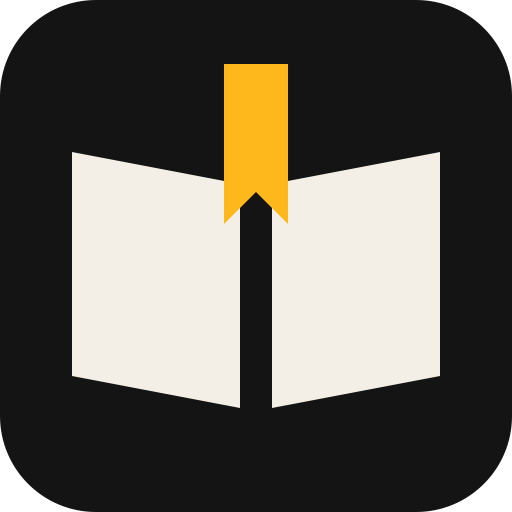
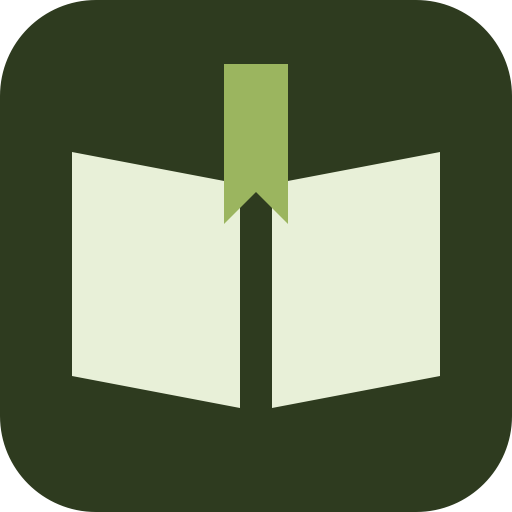
Green palette and Figma-designed motion
- Palette: olive #2E3B1F, matcha #9BB55F, cream-mint #E8F0D8 (tints mixed
  from those three); light and dark mode; icons and share image updated
- Entrance motion taken from the Figma prototype 'Home – motion': header,
  headline lines, hero, glance panel rows and protein highlight on load;
  cards and steps when scrolled into view; list counter bumps on add
- All motion off under prefers-reduced-motion

diff --git a/style.css b/style.css
@@ -1,13 +1,13 @@
-/* My Recipe Booklet: a food-label look. Black rules, condensed type, mono numbers,
-   one saffron accent. */
+/* My Recipe Booklet: a food-label look in three greens. Olive for type and rules,
+   matcha as the single accent, cream-mint as the page. Tints are mixed from those three. */
 :root {
-  --bg: #f3efe6;
-  --surface: #fbf9f4;
-  --ink: #141414;
-  --muted: #5c574f;
-  --hair: #d9d3c7;
-  --accent: #ffb81c;
-  --on-accent: #141414;
+  --bg: #e8f0d8;        /* cream-mint */
+  --surface: #f4f8ec;   /* lighter cream-mint */
+  --ink: #2e3b1f;       /* olive */
+  --muted: #4f5e38;     /* olive lifted toward matcha */
+  --hair: #c9d6b2;
+  --accent: #9bb55f;    /* matcha */
+  --on-accent: #2e3b1f;
   --danger: #b3261e;
   --display: "Archivo", "Helvetica Neue", Arial, sans-serif;
   --sans: "Archivo", system-ui, -apple-system, sans-serif;
@@ -16,11 +16,12 @@
 }
 @media (prefers-color-scheme: dark) {
   :root {
-    --bg: #121211;
-    --surface: #1b1a18;
-    --ink: #f3efe6;
-    --muted: #a39e94;
-    --hair: #34322e;
+    --bg: #161d0f;
+    --surface: #212a17;
+    --ink: #e8f0d8;
+    --muted: #b4c39a;
+    --hair: #34402a;
+    --on-accent: #161d0f;
     --danger: #ff8a7a;
   }
 }
@@ -160,9 +161,9 @@ a { color: inherit; }
 .steps span { color: var(--muted); font-size: 18px; }
 
 .chart-grid { display: grid; grid-template-columns: repeat(2, 1fr); gap: 16px; margin: 8px 0 12px; }
-.chart { margin: 0; border: 2px solid var(--ink); background: #fbf9f4; }
+.chart { margin: 0; border: 2px solid var(--ink); background: #f4f8ec; }
 .chart iframe { display: block; width: 100%; height: 420px; border: 0; }
-.chart figcaption { padding: 12px 16px; border-top: 1px solid var(--ink); font-size: 14px; color: #5c574f; }
+.chart figcaption { padding: 12px 16px; border-top: 1px solid var(--ink); font-size: 14px; color: #4f5e38; }
 
 .facts-group {
   font: 500 12px var(--mono); letter-spacing: .14em; text-transform: uppercase; color: var(--muted);
@@ -356,6 +357,40 @@ code { font: .9em var(--mono); background: var(--surface); padding: 1px 5px; bor
 @media (prefers-reduced-motion: reduce) {
   *, *::before, *::after { animation: none !important; transition: none !important; }
 }
+
+/* ── motion: values from the Figma prototype ("Home – motion"). Plays once on load;
+   cards and steps start when scrolled into view. Off for reduced-motion users. ── */
+@keyframes m-in { from { opacity: 0; translate: var(--mx, 0) var(--my, 0); } to { opacity: 1; translate: 0 0; } }
+@keyframes m-pop {
+  0% { scale: var(--from, .6); animation-timing-function: cubic-bezier(0, 0, .58, 1); }
+  55% { scale: 1.12; animation-timing-function: cubic-bezier(.42, 0, .58, 1); }
+  100% { scale: 1; }
+}
+.motion .bar { --my: -12px; animation: m-in .4s cubic-bezier(0, 0, .58, 1) both; }
+.motion #p-cover.active .kicker { animation: m-in .35s cubic-bezier(0, 0, .58, 1) .2s both; }
+.motion #p-cover.active .ln { display: block; --my: 40px; animation: m-in .55s cubic-bezier(0, 0, .58, 1) both; }
+.motion #p-cover.active .ln:nth-child(1) { animation-delay: .3s; }
+.motion #p-cover.active .ln:nth-child(2) { animation-delay: .42s; }
+.motion #p-cover.active .ln:nth-child(3) { animation-delay: .54s; }
+.motion #p-cover.active .lede { --my: 16px; animation: m-in .45s cubic-bezier(0, 0, .58, 1) .8s both; }
+.motion #p-cover.active .hero-cta { --my: 16px; animation: m-in .45s cubic-bezier(0, 0, .58, 1) .95s both; }
+.motion #p-cover.active .label { --mx: 28px; animation: m-in .6s cubic-bezier(0, 0, .58, 1) .6s both; }
+.motion #p-cover.active .label-row { --mx: 12px; animation: m-in .35s cubic-bezier(0, 0, .58, 1) both; }
+.motion #p-cover.active .label-row:nth-of-type(1) { animation-delay: .9s; }
+.motion #p-cover.active .label-row:nth-of-type(2) { animation-delay: 1s; }
+.motion #p-cover.active .label-row:nth-of-type(3) { animation-delay: 1.1s; }
+.motion #p-cover.active .label-row:nth-of-type(4) { animation-delay: 1.2s; }
+.motion #p-cover.active .label-lead b { display: inline-block; --from: .6; animation: m-pop .4s 1.3s both; }
+.motion #p-cover.active .cards:not(.in) .card,
+.motion #p-cover.active .steps:not(.in) li { opacity: 0; }
+.motion #p-cover.active .cards.in .card { --my: 32px; animation: m-in .5s cubic-bezier(0, 0, .58, 1) both; }
+.motion #p-cover.active .cards.in .card:nth-child(2) { animation-delay: .12s; }
+.motion #p-cover.active .cards.in .card:nth-child(3) { animation-delay: .24s; }
+.motion #p-cover.active .steps.in li { --mx: -24px; animation: m-in .45s cubic-bezier(0, 0, .58, 1) both; }
+.motion #p-cover.active .steps.in li:nth-child(2) { animation-delay: .1s; }
+.motion #p-cover.active .steps.in li:nth-child(3) { animation-delay: .2s; }
+.motion #p-cover.active .steps.in li:nth-child(4) { animation-delay: .3s; }
+.motion .count-pill.bump { --from: .4; animation: m-pop .4s both; }
 
 /* ── print: the booklet, or just the shopping list ── */
 @media print {

diff --git a/app.js b/app.js
@@ -69,7 +69,7 @@
       <div class="hero">
         <div class="hero-text">
           <p class="kicker">Vegetarian · high protein</p>
-          <h1 id="hero-title">Weeknight dinners with real protein.</h1>
+          <h1 id="hero-title"><span class="ln">Weeknight dinners</span> <span class="ln">with real</span> <span class="ln">protein.</span></h1>
           <p class="lede">High-protein vegetarian dinners in about 20 minutes. Pick a few, get one shopping list.</p>
           <div class="hero-cta">
             <button class="btn primary big" data-go="contents">Browse recipes</button>
@@ -284,7 +284,9 @@
       if (b.classList.contains("pick-sm")) b.setAttribute("aria-label", `${b.title}: ${b.dataset.name}`);
     });
     const cart = document.getElementById("cart");
-    cart.innerHTML = `List${picked.size ? ` <span class="count-pill">${picked.size}</span>` : ""}`;
+    const bump = lastPickCount !== null && picked.size > lastPickCount;
+    lastPickCount = picked.size;
+    cart.innerHTML = `List${picked.size ? ` <span class="count-pill${bump ? " bump" : ""}">${picked.size}</span>` : ""}`;
     cart.setAttribute("aria-label", `Shopping list, ${picked.size} recipe${picked.size === 1 ? "" : "s"}`);
     cart.classList.toggle("has", picked.size > 0);
   }
@@ -529,9 +531,19 @@
     cuisines = [...new Set(recipes.map((r) => r.cuisine).filter(Boolean))];
     picked = new Set([...picked].filter((s) => bySlug[s]));
     filter = { q: "", cuisine: "" };
+    revealObserver?.disconnect();
     book.innerHTML = coverPage() + contentsPage() + recipes.map(recipePage).join("") + listPage() + generatePage() + aboutPage() + (owner ? addPage() : "");
     renderToc();
+    book.querySelectorAll(".cards, .steps").forEach((el) => revealObserver?.observe(el));
   }
+
+  // Motion (designed in Figma): sections below the fold animate in once they scroll into view.
+  const motionOK = window.matchMedia && !window.matchMedia("(prefers-reduced-motion: reduce)").matches && "IntersectionObserver" in window;
+  if (motionOK) document.documentElement.classList.add("motion");
+  const revealObserver = motionOK ? new IntersectionObserver((entries) => {
+    for (const e of entries) if (e.isIntersecting) { e.target.classList.add("in"); revealObserver.unobserve(e.target); }
+  }, { threshold: 0.2 }) : null;
+  let lastPickCount = null;
 
   function current() {
     const id = location.hash.slice(1);

diff --git a/index.html b/index.html
@@ -6,7 +6,7 @@
   <title>My Recipe Booklet · High-protein vegetarian recipes</title>
   <meta name="description" content="Quick vegetarian dinners with 20–35 g of protein each, built on tofu, paneer, beans and Greek yogurt. Pick recipes and get one combined shopping list.">
   <link rel="canonical" href="https://my-recipe-booklet.netlify.app/">
-  <meta name="theme-color" content="#141414">
+  <meta name="theme-color" content="#2e3b1f">
   <link rel="icon" href="favicon.svg" type="image/svg+xml">
   <link rel="icon" href="favicon-32.png" sizes="32x32" type="image/png">
   <link rel="apple-touch-icon" href="apple-touch-icon.png">
